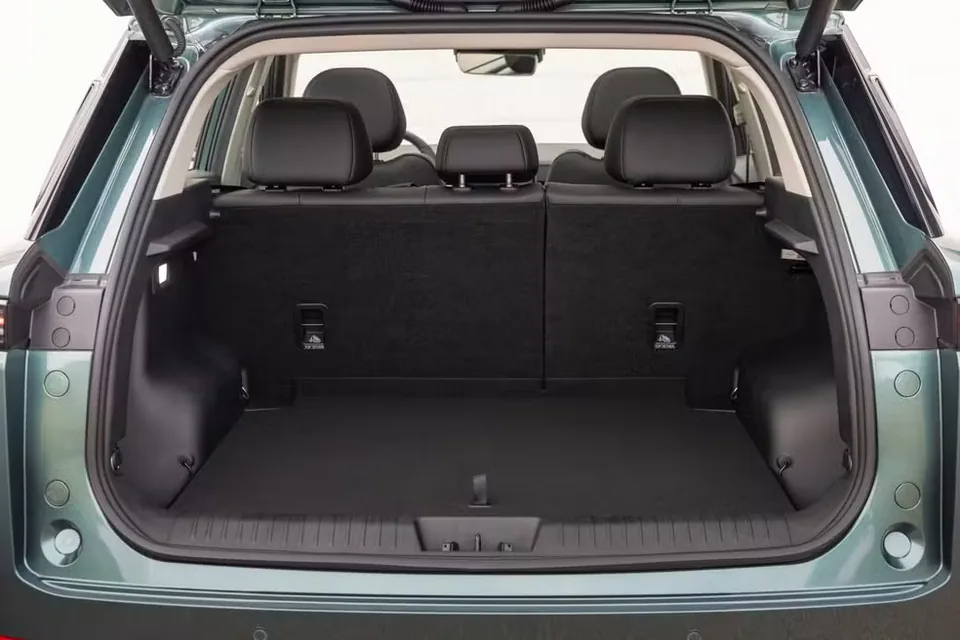
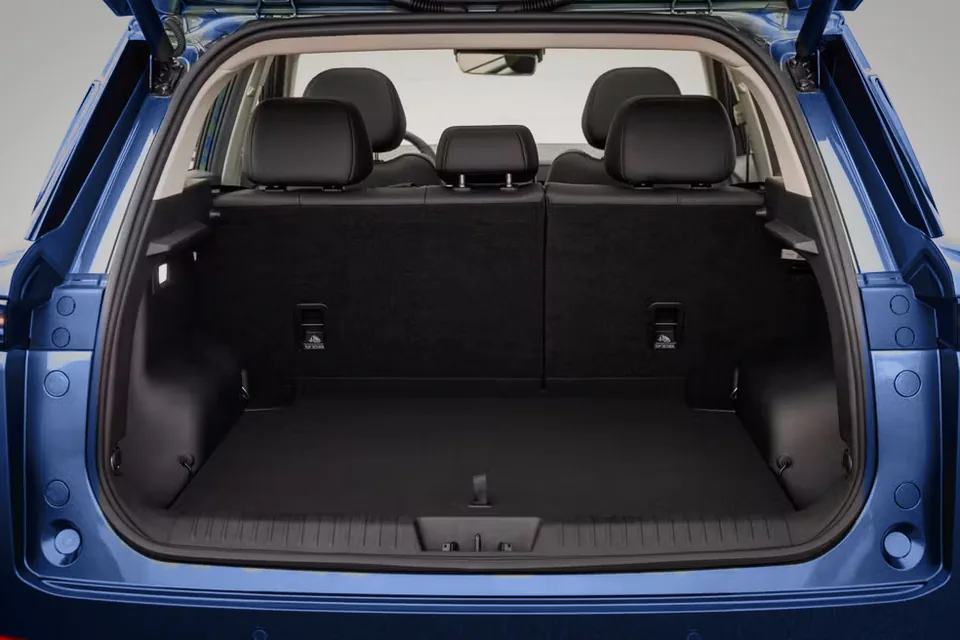
feat(carrelio): o mesmo azul no 3D e nas fotos do porta-malas
Pedido do titular: "deixa as cores iguais das fotos dos carros" e "a foto
do porta-malas cheio ficou um pouco clara, melhor aplicar um filtro".

- tools/carrelio-porta-malas.mjs mede o azul da lataria na foto do cheio
  (OKLab: matiz e croma por luminosidade) e pinta com ele a lataria do
  vazio, que era de um carro cinza esverdeado; sombreado e reflexos
  continuam os da foto. As duas passam pelo mesmo filtro (meios-tons mais
  escuros, branco contido, vinheta leve).
- Azul Gaia do 3D: de #4f6377 (estimado) para #435a8a, medido no mesmo
  azul (matiz de 263° no pôster e nas fotos). Pôsteres e imagem de
  compartilhamento refeitos.
- tools/carrelio-poster.mjs aceita os nomes dos pôsteres a refazer (o 2×
  grande às vezes derruba o SwiftShader).

Claude-Session: https://claude.ai/code/session_01NymVkhUjrAqESjyDC2bifq

diff --git a/src/lib/carrelio/catalogo.ts b/src/lib/carrelio/catalogo.ts
@@ -6,8 +6,11 @@ import type { CorId, VersaoId, Vista } from './tipos';
  * carros chineses para atrair clientes.
  *
  * Tudo aqui é público e vem das fontes no fim do arquivo (lançamento de 30/09/2026). Os tons das
- * cores são aproximações para o 3D, não a amostra de fábrica. Os preços são os de lançamento
- * divulgados pela marca: na loja, valem os da tabela do dia (a demonstração diz isso).
+ * cores são aproximações para o 3D, não a amostra de fábrica. O do Azul Gaia foi medido na foto de
+ * divulgação do porta-malas (a lataria azul), para o 3D e as fotos dos pontos mostrarem o mesmo
+ * azul ("deixa as cores iguais das fotos dos carros", pedido do titular em 07/10/2026). Os preços
+ * são os de lançamento divulgados pela marca: na loja, valem os da tabela do dia (a demonstração
+ * diz isso).
  */
 
 /**
@@ -95,7 +98,7 @@ export const JAECOO_5: Carro = {
     { id: 'branco-arctic', nome: 'Branco Arctic', hex: '#e6e8e6', tetoPretoNoPrestige: true },
     { id: 'preto-andromeda', nome: 'Preto Andromeda', hex: '#15171b', tetoPretoNoPrestige: false },
     { id: 'cinza-centaurus', nome: 'Cinza Centaurus', hex: '#6c7075', tetoPretoNoPrestige: false },
-    { id: 'azul-gaia', nome: 'Azul Gaia', hex: '#4f6377', tetoPretoNoPrestige: false },
+    { id: 'azul-gaia', nome: 'Azul Gaia', hex: '#435a8a', tetoPretoNoPrestige: false },
   ],
   versoes: [
     {

diff --git a/src/components/carrelio/DemonstracaoCarrelio.test.tsx b/src/components/carrelio/DemonstracaoCarrelio.test.tsx
@@ -108,7 +108,7 @@ describe('a demonstração do Carrelio', () => {
   it('manda a cor, o teto preto e os itens da versão para a cena', async () => {
     montar();
     await abrir3d();
-    expect(ultimo()).toMatchObject({ pintura: '#4f6377', tetoPreto: false, tetoPanoramico: true, vista: 'fora' });
+    expect(ultimo()).toMatchObject({ pintura: '#435a8a', tetoPreto: false, tetoPanoramico: true, vista: 'fora' });
     fireEvent.click(screen.getByRole('radio', { name: /Branco Arctic/ }));
     await waitFor(() => expect(ultimo()).toMatchObject({ pintura: '#e6e8e6', tetoPreto: true }));
     expect(screen.getByText(/Branco Arctic, teto preto/)).toBeInTheDocument();

diff --git a/src/components/carrelio/3d/estado-inicial.ts b/src/components/carrelio/3d/estado-inicial.ts
@@ -5,7 +5,7 @@ import type { EstadoVisualCarro } from './contrato';
  * Gaia, por fora, no estúdio, faróis apagados, portas fechadas, câmera ¾ de frente. A interface abre
  * neste estado (`interfaceInicial`), e o 3D troca o pôster sem salto.
  */
-export const COR_DO_POSTER = '#4f6377';
+export const COR_DO_POSTER = '#435a8a';
 
 export function estadoDoPoster(movimento: boolean): EstadoVisualCarro {
   return {

diff --git a/src/components/carrelio/3d/materiais.ts b/src/components/carrelio/3d/materiais.ts
@@ -29,7 +29,7 @@ export const VERNIZ_DE_FABRICA: Verniz = { intensidade: 1, rugosidade: 0.03 };
 export function criarTinta(flocos: { mapa: Texture; escala: Vector2 } | null, verniz: Verniz): MeshPhysicalMaterial {
   const m = new MeshPhysicalMaterial({
     name: 'carrelio:tinta',
-    color: 0x4f6377,
+    color: 0x435a8a,
     metalness: 0.6,
     roughness: 0.36,
     clearcoat: verniz.intensidade,

diff --git a/docs/carrelio/IMPLEMENTACAO.md b/docs/carrelio/IMPLEMENTACAO.md
@@ -105,6 +105,22 @@ porque foi eles que me pediu"). O objetivo é conquistar a loja como cliente.
 - O texto do câmbio fica no que a ficha confirma ("Automático, híbrido dedicado (1DHT)"); a posição
   do seletor é a da foto de divulgação.
 
+## O mesmo azul no 3D e nas fotos
+
+- Pedido do titular (07/10/2026): "deixa as cores iguais das fotos dos carros" e "a foto do
+  porta-malas cheio ficou um pouco clara, melhor aplicar um filtro".
+- As duas fotos do porta-malas eram de carros de cores diferentes (o cheio azul; o vazio, um cinza
+  esverdeado de outro mercado), e o carro trocava de cor quando elas se alternavam.
+  `tools/carrelio-porta-malas.mjs` (chamado por `tools/carrelio-interior.mjs`) mede o azul da
+  lataria do cheio no OKLab (matiz e croma por luminosidade) e pinta a lataria do vazio com ele,
+  mantendo o sombreado e os reflexos da foto. As duas passam pelo mesmo filtro: meios-tons mais
+  escuros, o branco estourado contido e uma vinheta leve.
+- O Azul Gaia do 3D passou de `#4f6377` (um azul acinzentado estimado) para `#435a8a`, medido no
+  mesmo azul: no pôster, matiz de 263° e croma de 0,073 no OKLab, contra 263° e 0,08 nas fotos.
+  A luminosidade do 3D ficou um pouco acima da das fotos, para o carro não sumir no estúdio escuro.
+  Pôsteres refeitos (`node tools/carrelio-poster.mjs`) e imagem de compartilhamento recortada do
+  pôster 2× (1200 × 630, centro). Branco, preto e cinza continuam estimados: não há foto deles.
+
 ## Código
 
 - Domínio (`src/lib/carrelio/`): `tipos`, `catalogo`, `estado`, `persistencia`, `link` e

diff --git a/docs/DECISOES_ANTES_DE_PUBLICAR.md b/docs/DECISOES_ANTES_DE_PUBLICAR.md
@@ -108,7 +108,9 @@ Pendências:
       ser entrega do projeto (fotos 360° na loja);
 - [x] aprovar as capturas do interior em foto antes de publicar — aprovadas pelo titular em
       07/10/2026 ("pode").
-- [ ] aprovar as capturas das fotos de detalhe (teto, porta-malas e câmbio) antes de publicar.
+- [x] aprovar as capturas das fotos de detalhe (teto, porta-malas e câmbio) e do azul novo (o
+      carro das duas fotos do porta-malas no mesmo azul, o filtro no cheio e o Azul Gaia do 3D
+      medido nas fotos) antes de publicar — aprovadas pelo titular em 07/10/2026 ("pode").
 
 ## Revalio
 
